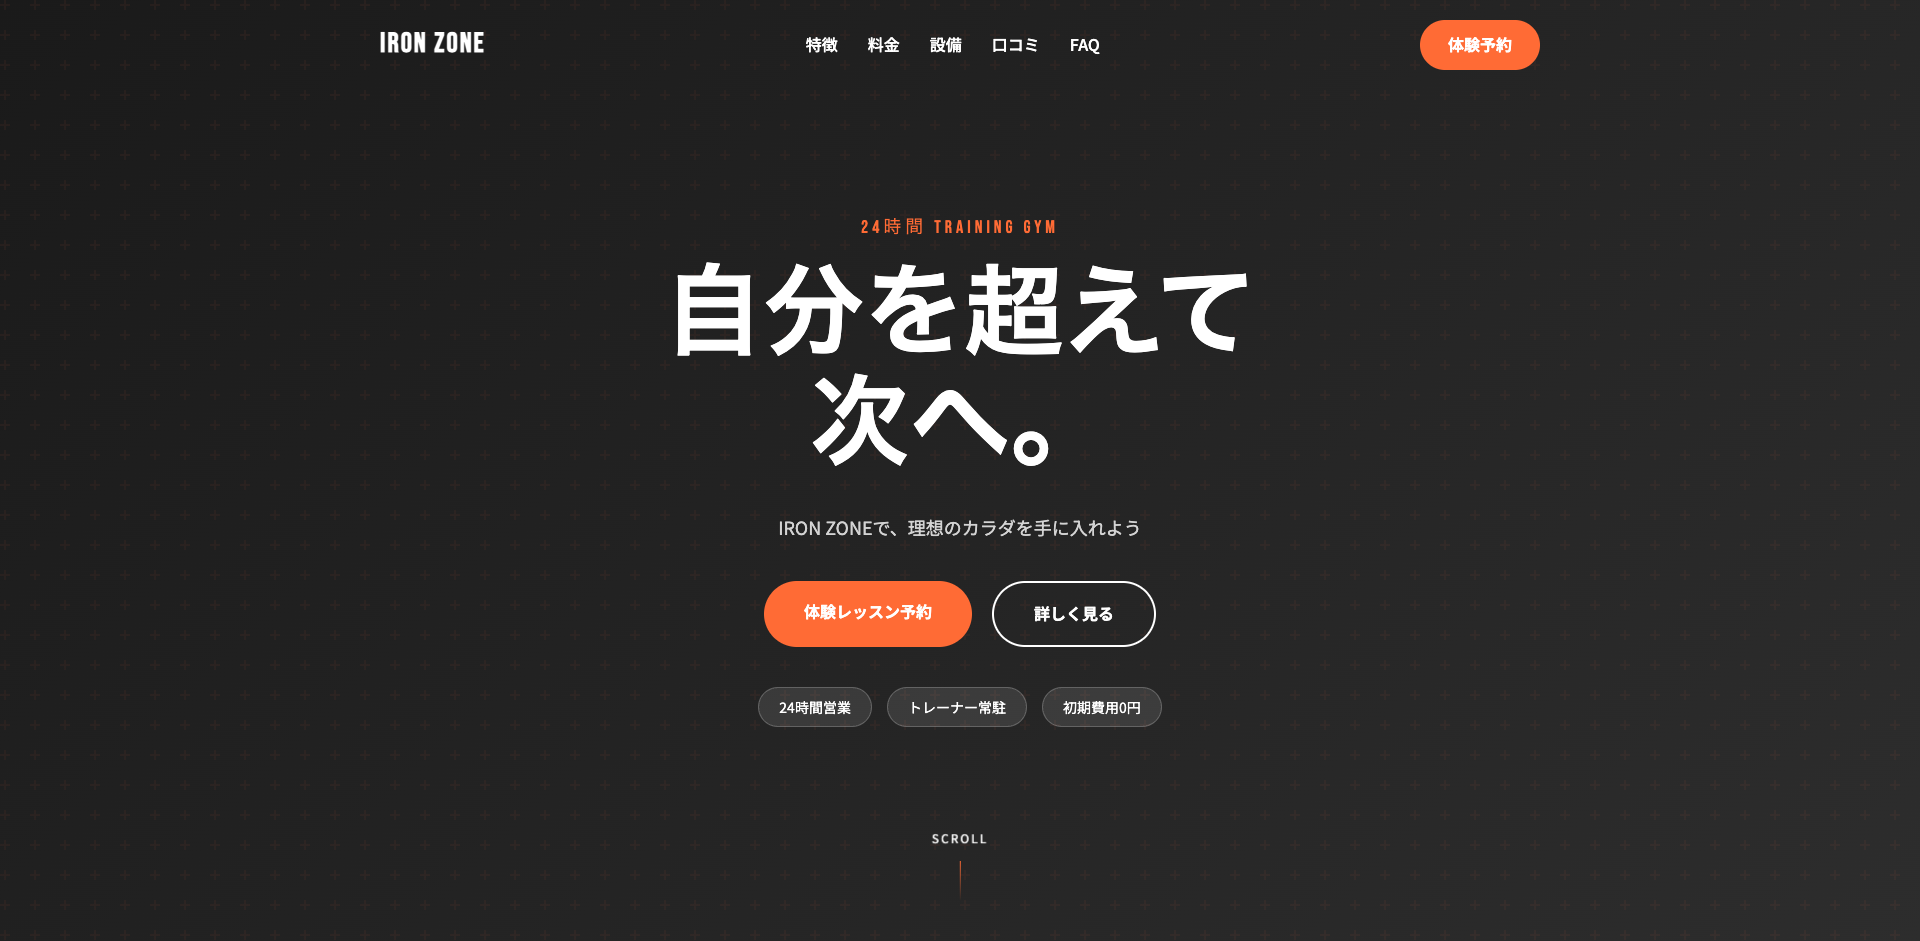
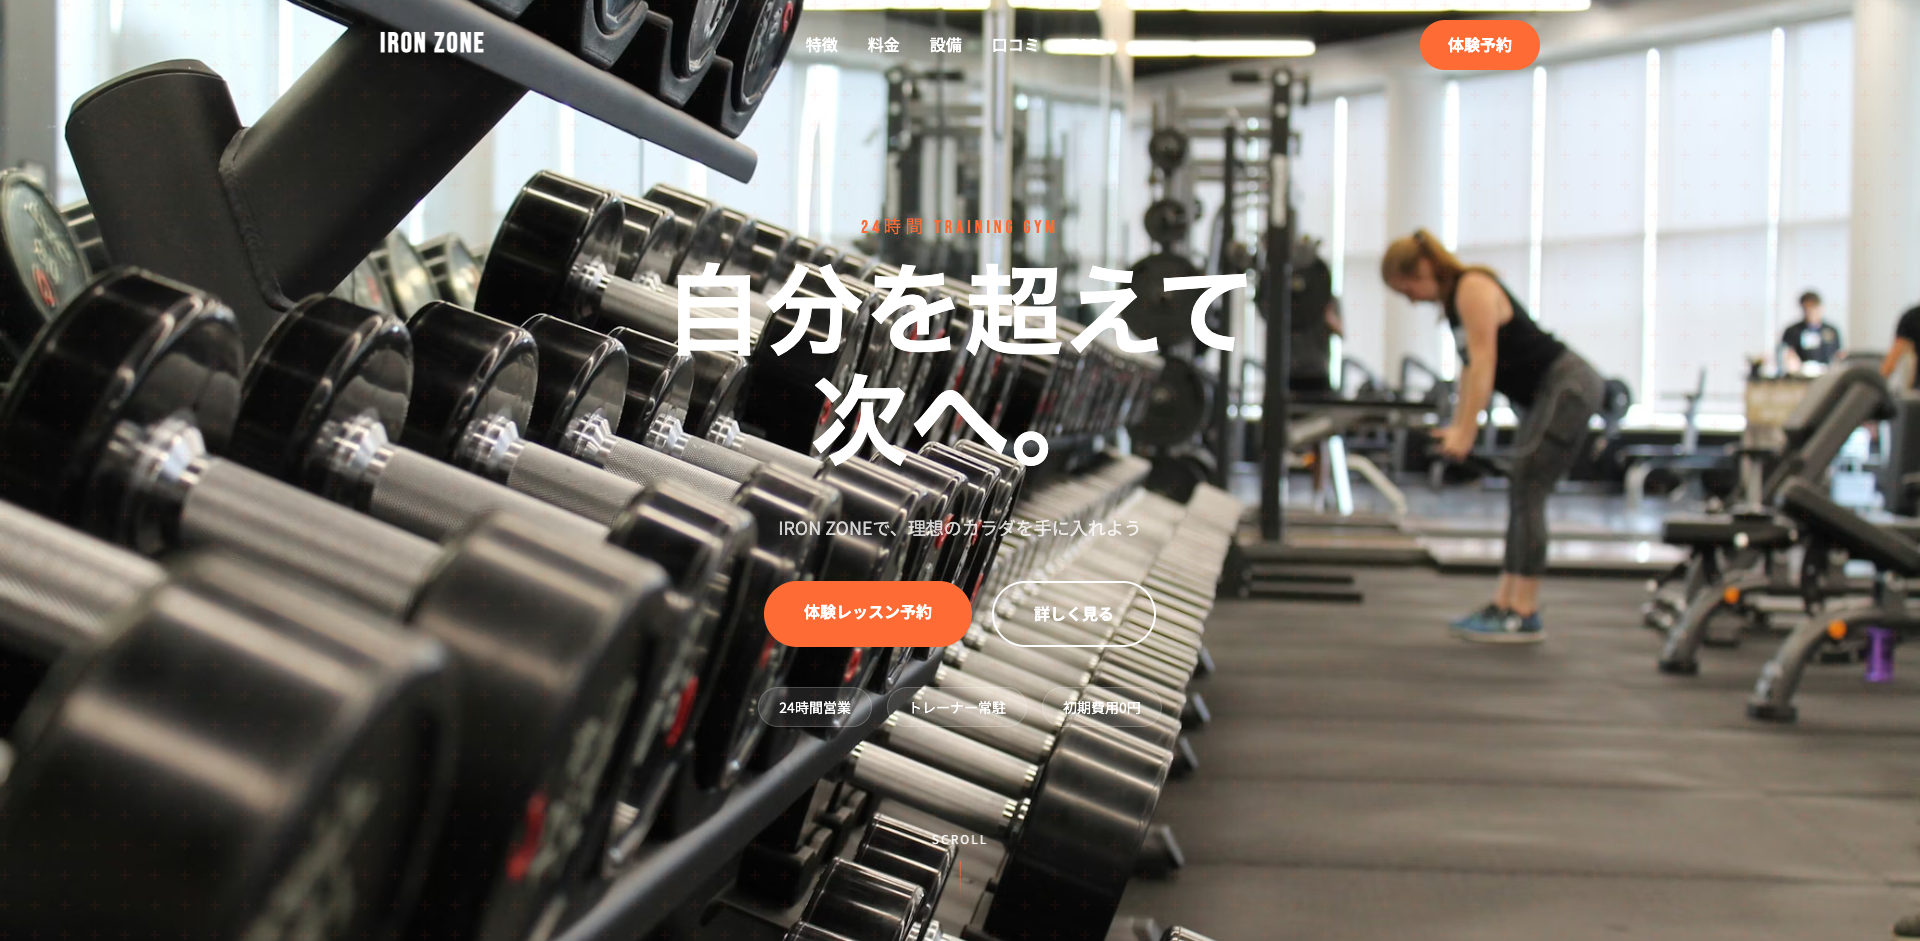
Add gym images from Unsplash to Day068 LP
Images added:
- Hero: Training gym background (weight training scene)
- Facilities: Machine area, studio, shower, locker room
- Voice section: Member avatar images

All images from Unsplash (free usage).
Added hover effects on facility images.

diff --git a/day068/current/gym-lp/index.html b/day068/current/gym-lp/index.html
@@ -52,6 +52,7 @@
   <!-- Hero -->
   <section class="hero" id="hero">
     <div class="hero-bg">
+      <img src="https://images.unsplash.com/photo-1534438327276-14e5300c3a48?q=80&w=2070&auto=format&fit=crop" alt="トレーニングジム内様" class="hero-bg-image" loading="eager">
       <div class="hero-overlay"></div>
     </div>
     <div class="hero-content">
@@ -195,14 +196,8 @@
       </div>
       <div class="facilities-grid">
         <div class="facility-item fade-in">
-          <div class="facility-image facility-image-machine">
-            <svg width="64" height="64" viewBox="0 0 24 24" fill="none" stroke="currentColor" stroke-width="1.5" stroke-linecap="round" stroke-linejoin="round">
-              <path d="M6 3h12v18H6z"></path>
-              <path d="M10 7h4"></path>
-              <path d="M10 11h4"></path>
-              <path d="M10 15h4"></path>
-              <circle cx="12" cy="19" r="1"></circle>
-            </svg>
+          <div class="facility-image">
+            <img src="https://images.unsplash.com/photo-1574680096141-98c6632f7e36?q=80&w=800&auto=format&fit=crop" alt="マシンエリア" loading="lazy">
           </div>
           <div class="facility-content">
             <h3 class="facility-title">マシンエリア</h3>
@@ -210,11 +205,8 @@
           </div>
         </div>
         <div class="facility-item fade-in">
-          <div class="facility-image facility-image-studio">
-            <svg width="64" height="64" viewBox="0 0 24 24" fill="none" stroke="currentColor" stroke-width="1.5" stroke-linecap="round" stroke-linejoin="round">
-              <circle cx="12" cy="12" r="10"></circle>
-              <path d="M12 6v6l4 2"></path>
-            </svg>
+          <div class="facility-image">
+            <img src="https://images.unsplash.com/photo-1599901860904-17e6ed7083a0?q=80&w=800&auto=format&fit=crop" alt="スタジオエリア" loading="lazy">
           </div>
           <div class="facility-content">
             <h3 class="facility-title">スタジオエリア</h3>
@@ -222,15 +214,8 @@
           </div>
         </div>
         <div class="facility-item fade-in">
-          <div class="facility-image facility-image-shower">
-            <svg width="64" height="64" viewBox="0 0 24 24" fill="none" stroke="currentColor" stroke-width="1.5" stroke-linecap="round" stroke-linejoin="round">
-              <path d="M12 2v20"></path>
-              <path d="M8 6h8"></path>
-              <path d="M9 10h6"></path>
-              <path d="M10 14h4"></path>
-              <path d="M12 18v4"></path>
-              <path d="M8 22h8"></path>
-            </svg>
+          <div class="facility-image">
+            <img src="https://images.unsplash.com/photo-1584622650111-993a426fbf0a?q=80&w=800&auto=format&fit=crop" alt="シャワールーム" loading="lazy">
           </div>
           <div class="facility-content">
             <h3 class="facility-title">シャワールーム</h3>
@@ -238,11 +223,8 @@
           </div>
         </div>
         <div class="facility-item fade-in">
-          <div class="facility-image facility-image-locker">
-            <svg width="64" height="64" viewBox="0 0 24 24" fill="none" stroke="currentColor" stroke-width="1.5" stroke-linecap="round" stroke-linejoin="round">
-              <rect x="3" y="11" width="18" height="11" rx="2" ry="2"></rect>
-              <path d="M7 11V7a5 5 0 0 1 10 0v4"></path>
-            </svg>
+          <div class="facility-image">
+            <img src="https://images.unsplash.com/photo-1595590424283-b8f17842773f?q=80&w=800&auto=format&fit=crop" alt="更衣室・ロッカー" loading="lazy">
           </div>
           <div class="facility-content">
             <h3 class="facility-title">更衣室・ロッカー</h3>
@@ -262,6 +244,9 @@
       </div>
       <div class="voice-grid">
         <div class="voice-card fade-in">
+          <div class="voice-avatar">
+            <img src="https://images.unsplash.com/photo-1568602471122-7832951cc4c5?q=80&w=200&auto=format&fit=crop" alt="T.Sさん" loading="lazy">
+          </div>
           <p class="voice-quote">「24時間使えるのが本当に便利。仕事終わりにリフレッシュできるのが最高です。3ヶ月で5kg減量できました！」</p>
           <div class="voice-meta">
             <span class="voice-name">T.Sさん</span>
@@ -269,6 +254,9 @@
           </div>
         </div>
         <div class="voice-card fade-in">
+          <div class="voice-avatar">
+            <img src="https://images.unsplash.com/photo-1580489944761-15a19d654956?q=80&w=200&auto=format&fit=crop" alt="M.Kさん" loading="lazy">
+          </div>
           <p class="voice-quote">「トレーナーさんが丁寧に指導してくれるので、初心者でも安心。今ではトレーニングが日課になりました。」</p>
           <div class="voice-meta">
             <span class="voice-name">M.Kさん</span>
@@ -276,6 +264,9 @@
           </div>
         </div>
         <div class="voice-card fade-in">
+          <div class="voice-avatar">
+            <img src="https://images.unsplash.com/photo-1571019613454-1cb2f99b2d8b?q=80&w=200&auto=format&fit=crop" alt="Y.Hさん" loading="lazy">
+          </div>
           <p class="voice-quote">「マシンが充実していて、待ち時間ほぼなし。早朝の利用も快適です。コスパ最強だと思います。」</p>
           <div class="voice-meta">
             <span class="voice-name">Y.Hさん</span>

diff --git a/day068/current/gym-lp/styles.css b/day068/current/gym-lp/styles.css
@@ -239,6 +239,16 @@ button {
   right: 0;
   bottom: 0;
   background: linear-gradient(135deg, var(--secondary) 0%, #2d2d2d 100%);
+  overflow: hidden;
+}
+
+.hero-bg-image {
+  width: 100%;
+  height: 100%;
+  object-fit: cover;
+  position: absolute;
+  top: 0;
+  left: 0;
 }
 
 .hero-overlay {
@@ -595,12 +605,18 @@ button {
   display: flex;
   align-items: center;
   justify-content: center;
+  overflow: hidden;
 }
 
-.facility-image svg {
-  width: 64px;
-  height: 64px;
-  color: rgba(255, 255, 255, 0.8);
+.facility-image img {
+  width: 100%;
+  height: 100%;
+  object-fit: cover;
+  transition: transform 0.5s ease;
+}
+
+.facility-item:hover .facility-image img {
+  transform: scale(1.05);
 }
 
 .facility-content {
@@ -631,6 +647,23 @@ button {
   border-radius: 16px;
   box-shadow: 0 5px 20px rgba(0, 0, 0, 0.05);
   border-left: 4px solid var(--primary);
+  display: flex;
+  flex-direction: column;
+  gap: 15px;
+}
+
+.voice-avatar {
+  width: 60px;
+  height: 60px;
+  border-radius: 50%;
+  overflow: hidden;
+  flex-shrink: 0;
+}
+
+.voice-avatar img {
+  width: 100%;
+  height: 100%;
+  object-fit: cover;
 }
 
 .voice-quote {
@@ -642,7 +675,9 @@ button {
 .voice-meta {
   display: flex;
   align-items: center;
+  justify-content: space-between;
   gap: 15px;
+  margin-top: auto;
 }
 
 .voice-name {
